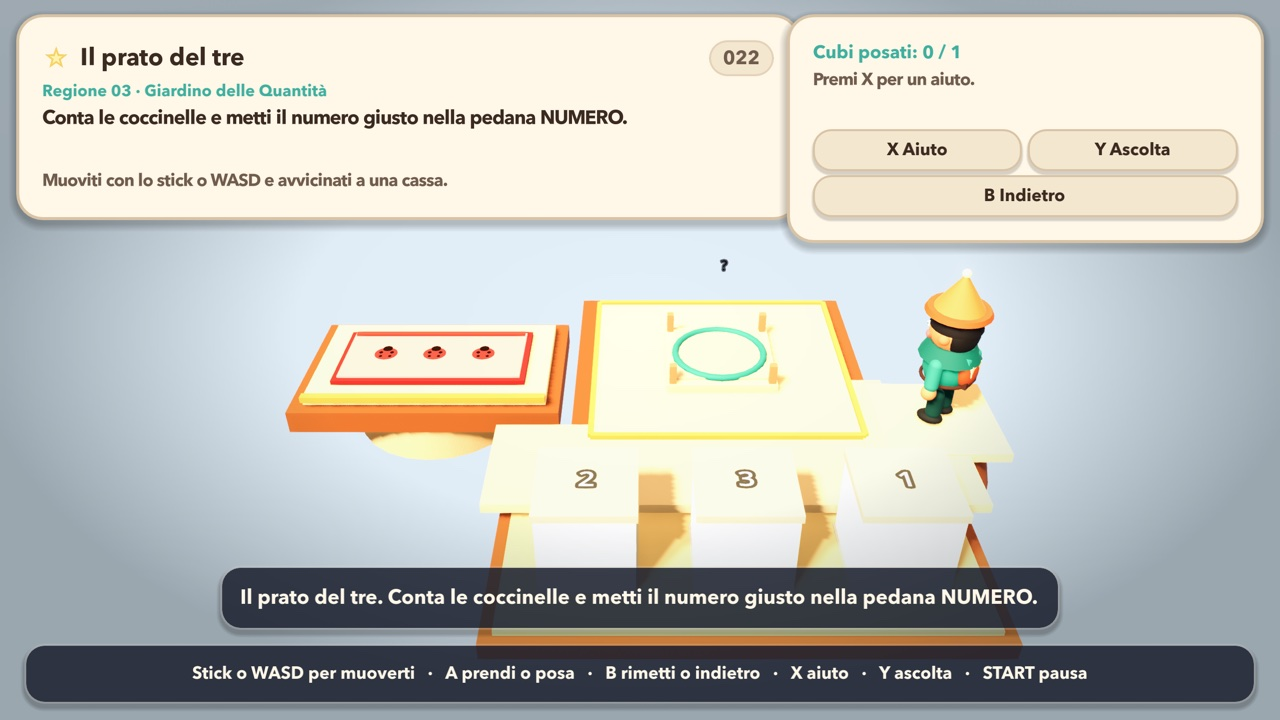
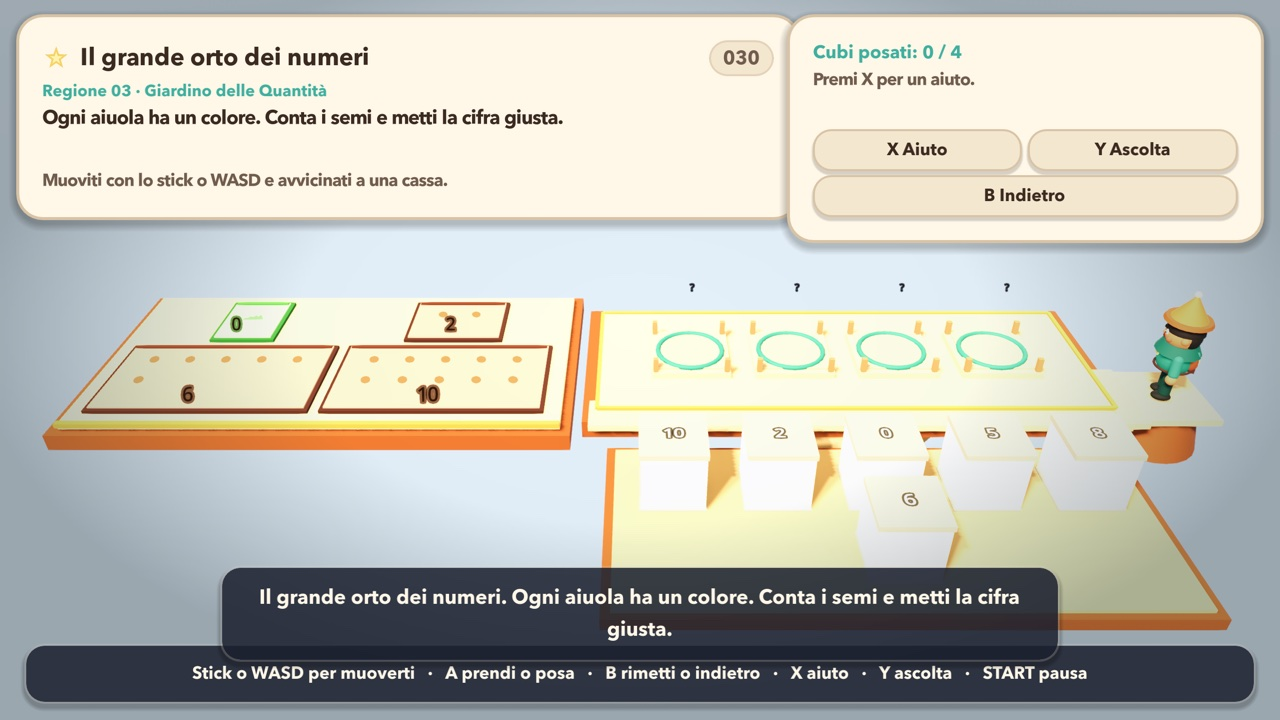
README: usa la missione di conteggio con le cifre

diff --git a/README.md b/README.md
@@ -35,7 +35,7 @@ Le build pronte per macOS, Windows, Linux e ChromeOS sono nella pagina
   </tr>
   <tr>
     <td width="50%"><a href="screenshots/17_missione_percorso.png"><img src="screenshots/presentazione/05_percorso.jpg" alt="Missione con un percorso"></a><br><sub><b>Percorsi</b> — passi, direzioni e sequenze da ricostruire con le casse.</sub></td>
-    <td width="50%"><a href="screenshots/19_conta_base.png"><img src="screenshots/presentazione/06_quantita.jpg" alt="Missione di conteggio"></a><br><sub><b>Quantità</b> — conta gli elementi e scegli il numero giusto.</sub></td>
+    <td width="50%"><a href="screenshots/21_conta_etichette.png"><img src="screenshots/presentazione/06_quantita.jpg" alt="Missione di conteggio con le cifre"></a><br><sub><b>Quantità</b> — conta i semi in ogni aiuola e scegli la cifra giusta.</sub></td>
   </tr>
   <tr>
     <td width="50%"><a href="screenshots/08_mappa.png"><img src="screenshots/presentazione/07_mappa.jpg" alt="Mappa delle regioni"></a><br><sub><b>Mappa</b> — 10 regioni e 100 pietre magiche da accendere.</sub></td>
